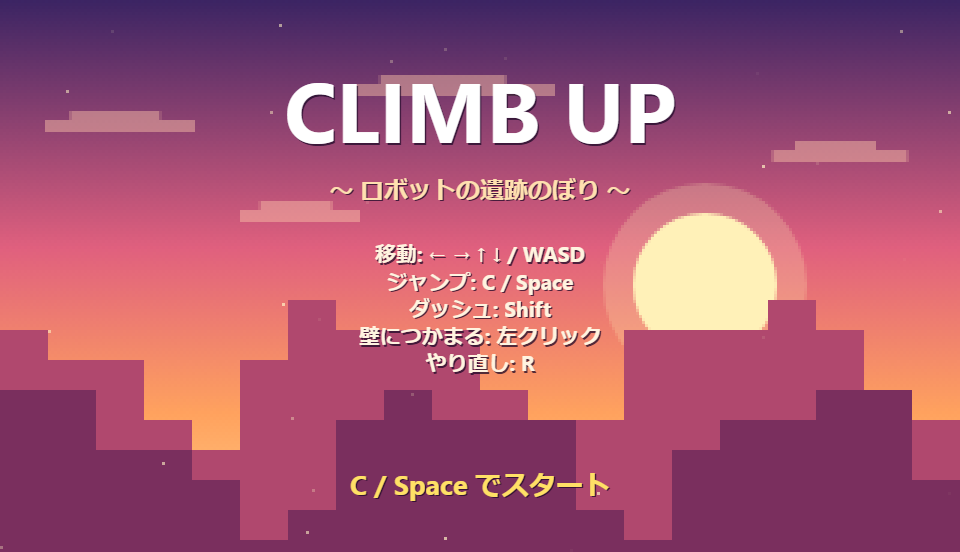
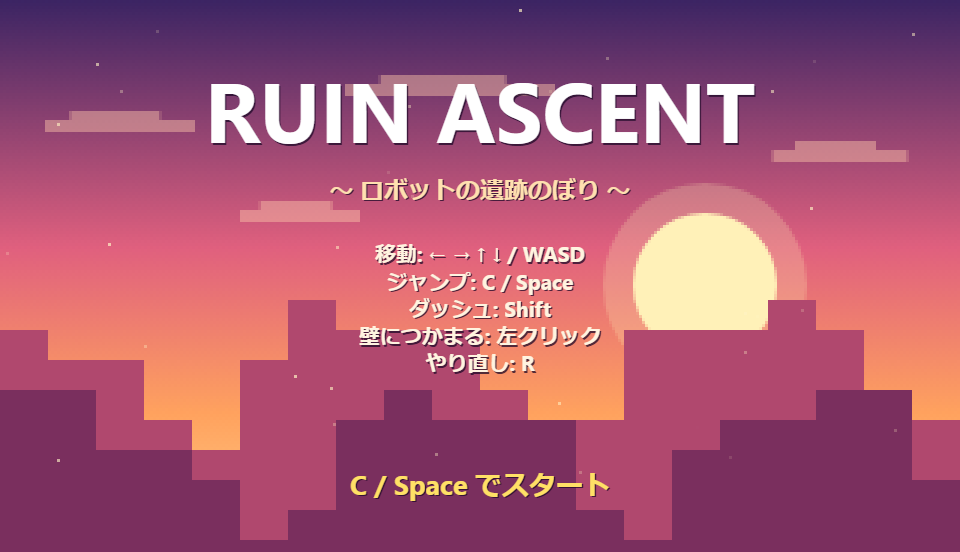
Rename the game to RUIN ASCENT

Changed region(s): [[0.2188, 0.154, 0.8125, 0.2772]]

diff --git a/js/render.js b/js/render.js
@@ -377,7 +377,7 @@ function render() {
   vctx.drawImage(buf, ox * scale, oy * scale, W * scale, H * scale);
 
   if (state === 'title') {
-    text('CLIMB UP', W / 2, 26, 28, '#ffffff', 'center');
+    text('RUIN ASCENT', W / 2, 26, 28, '#ffffff', 'center');
     text('〜 ロボットの遺跡のぼり 〜', W / 2, 60, 8, '#ffe0b0', 'center');
     text('移動: ← → ↑ ↓ / WASD\nジャンプ: C / Space\nダッシュ: Shift\n壁につかまる: 左クリック\nやり直し: R',
          W / 2, 82, 7, '#fff4e0', 'center');

diff --git a/index.html b/index.html
@@ -3,7 +3,7 @@
 <head>
   <meta charset="UTF-8">
   <meta name="viewport" content="width=device-width, initial-scale=1">
-  <title>CLIMB UP</title>
+  <title>RUIN ASCENT</title>
   <link rel="stylesheet" href="css/style.css">
 </head>
 <body>

diff --git a/README.md b/README.md
@@ -1,4 +1,4 @@
-# CLIMB UP
+# RUIN ASCENT
 
 小さなロボットが夕焼けの遺跡を登る 2D アクション。ブラウザだけで動きます（ビルド不要）。
 
